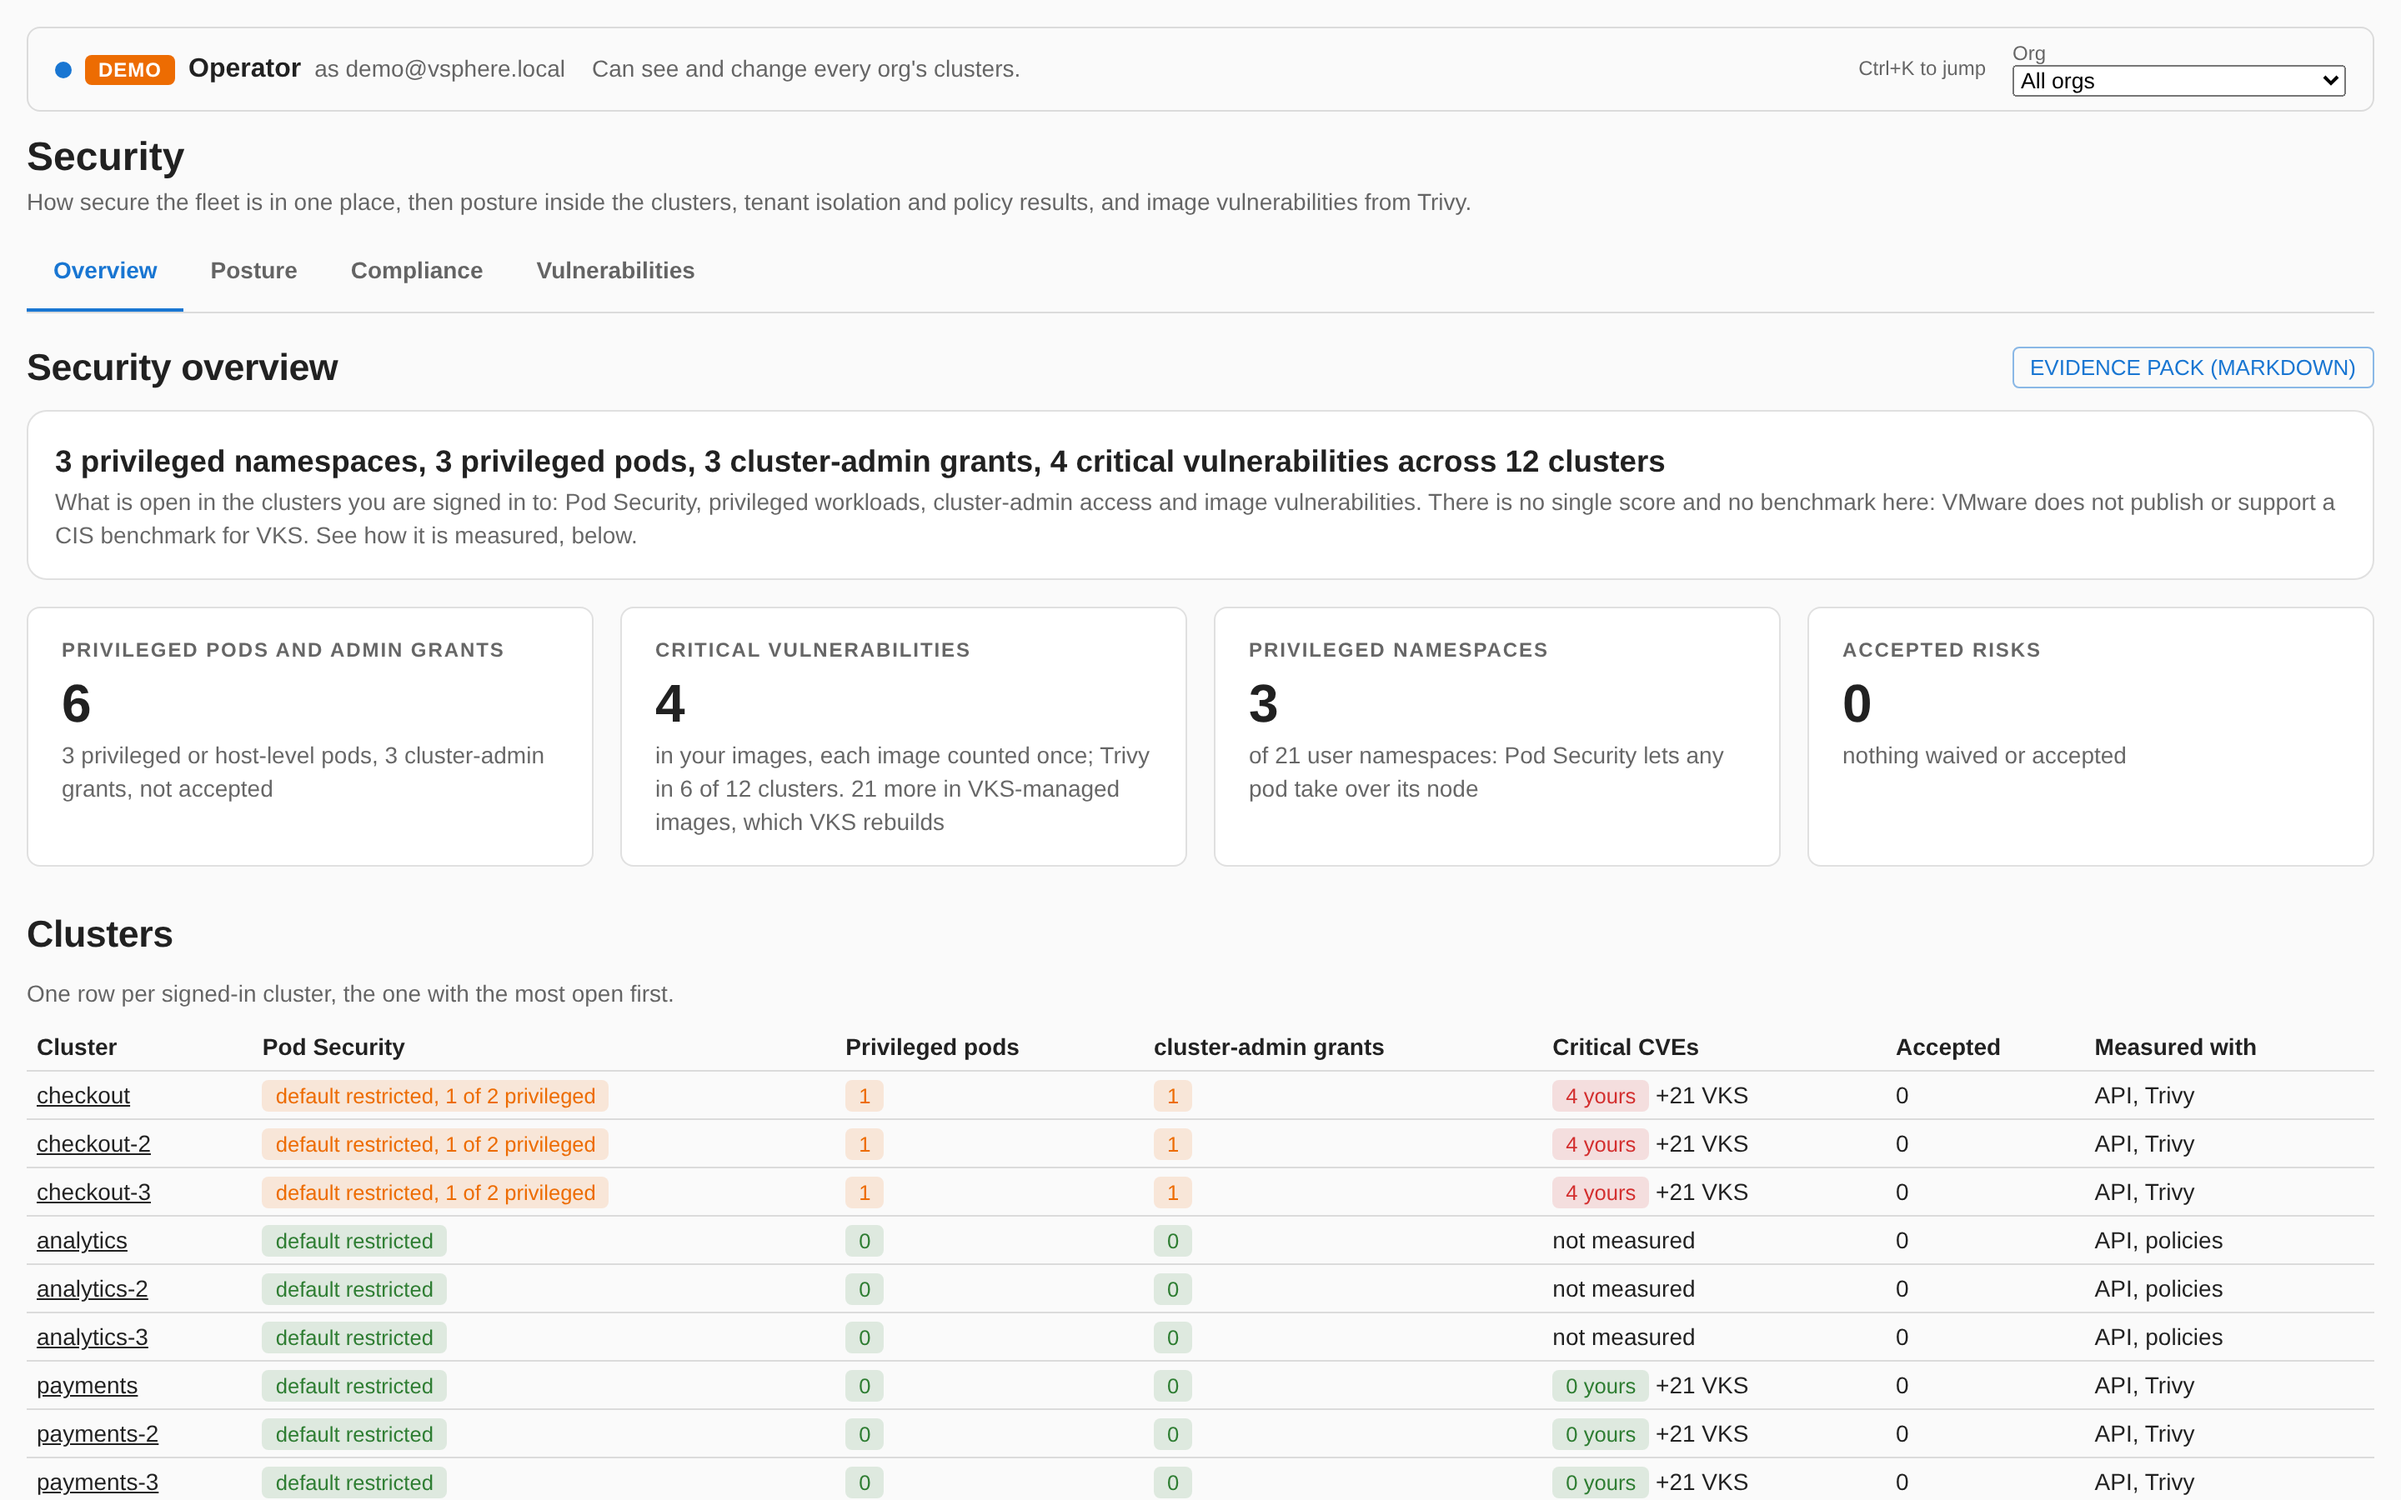
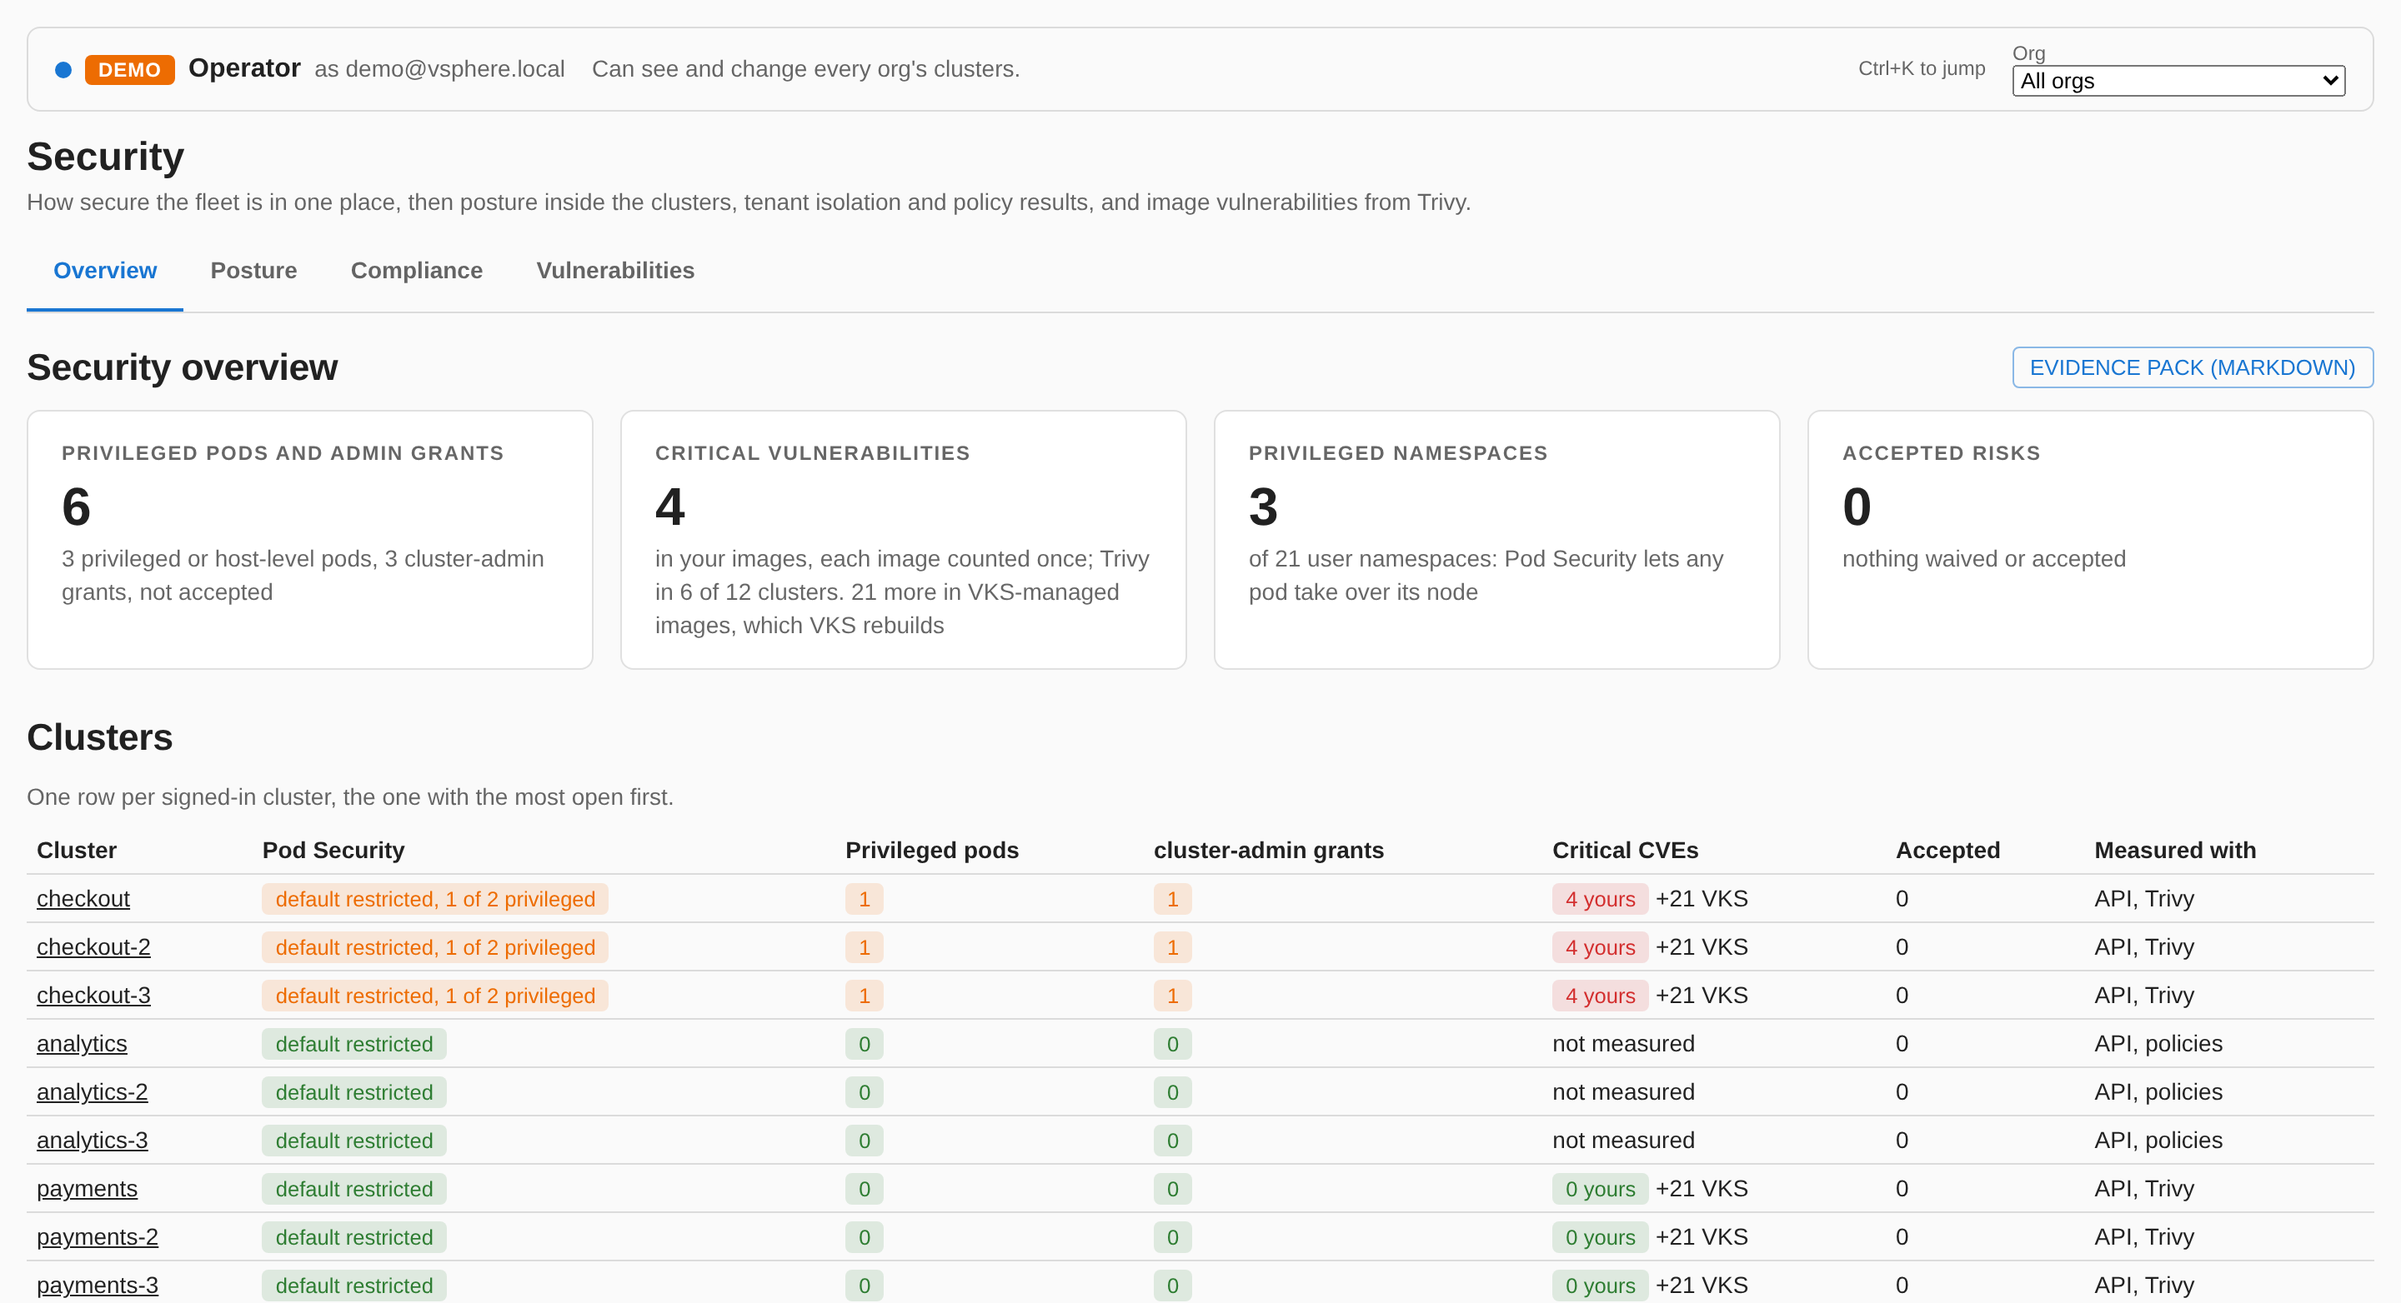
docs: Security overview screenshot without the summary card

diff --git a/README.md b/README.md
@@ -36,7 +36,7 @@ Operating a fleet of VKS clusters means moving between the Supervisor, vCenter, 
 
 **Audit.** Every change is stamped on what it changed and shows in the change audit and the activity heatmap. Security exports an evidence pack (Markdown).
 
-![Security overview: what is open in every cluster (privileged namespaces and pods, cluster-admin grants, image vulnerabilities) and how each figure is measured](docs/images/security-overview.png)
+![Security overview: what is open in every cluster (privileged namespaces and pods, cluster-admin grants, image vulnerabilities), then one row per cluster](docs/images/security-overview.png)
 
 ## Who it's for
 
